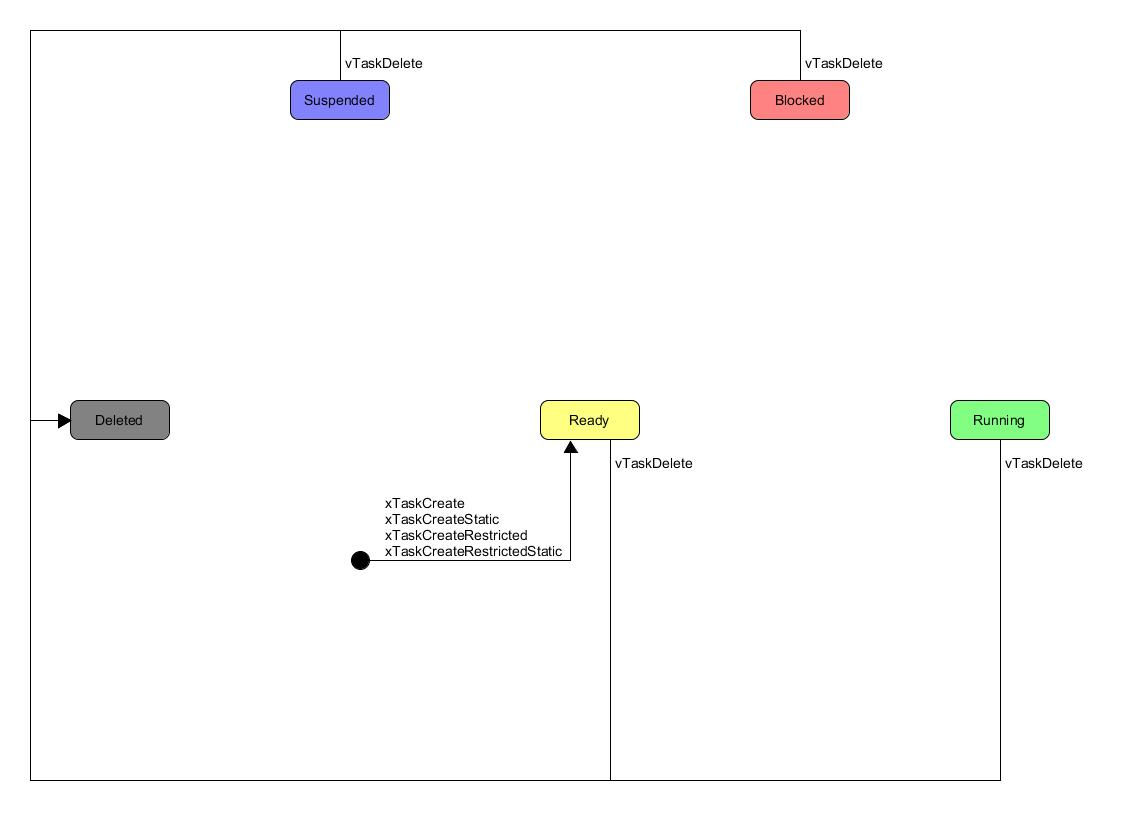
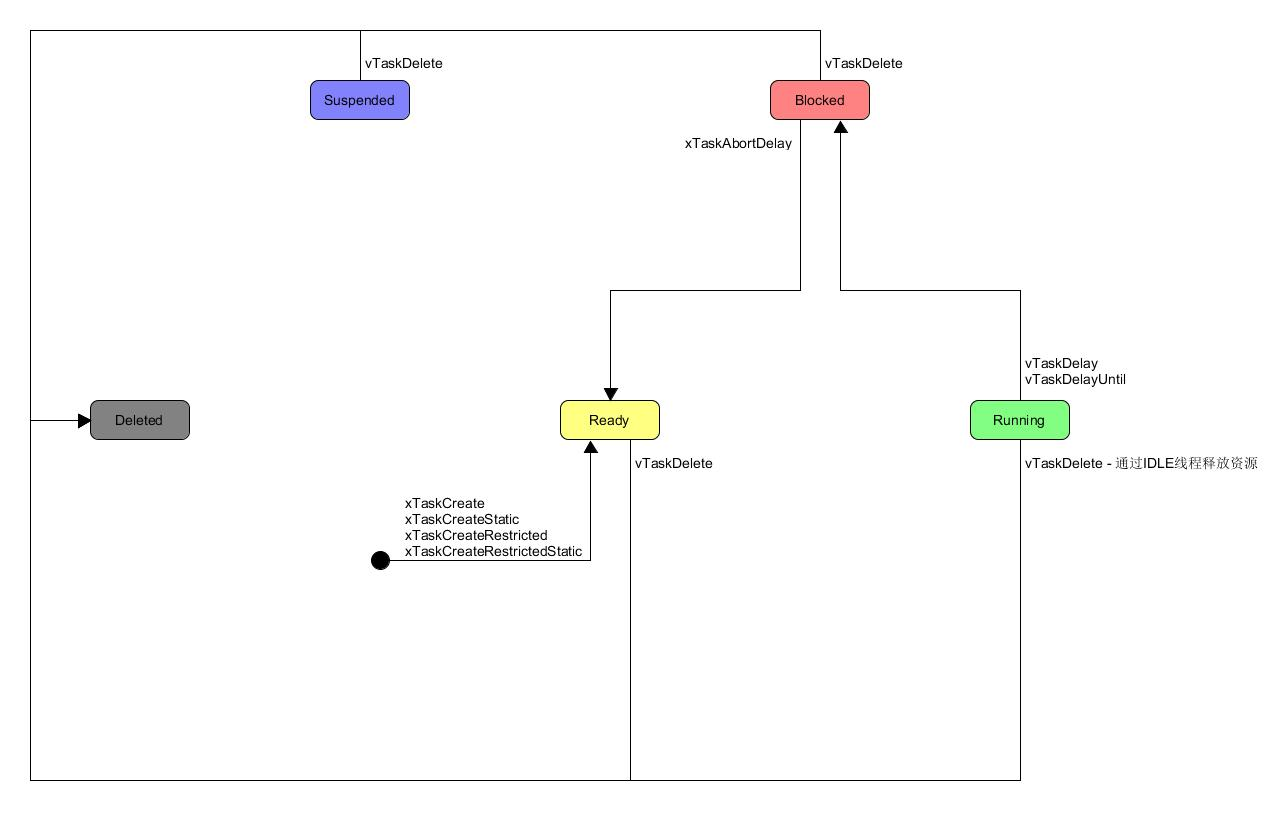
Update task_systick_and_delay.md

diff --git a/FreeRTOS/Markdown/task_systick_and_delay.md b/FreeRTOS/Markdown/task_systick_and_delay.md
@@ -15,6 +15,10 @@ FreeRTOS 提供了一些宏来配置系统时钟的频率：
 
 ## xTaskIncrementTick
 
+### 功能
+
+
+
 ### 原型
 
 ``` C
@@ -28,7 +32,7 @@ BaseType_t xTaskIncrementTick( void );
 
 ### 返回值
 
-如果该函数返回真，表明应该发起一次上下文切换（有高优先级任务或同优先级任务需要切换），后续可以手动触发一次 **PendSV** 中断，进行上下文切换。
+如果该函数返回非0，表明应该发起一次上下文切换（有高优先级任务或同优先级任务需要切换）。
 
 ### 流程
 
@@ -48,23 +52,30 @@ BaseType_t xTaskIncrementTick( void );
 
 ## vTaskSuspendAll
 
+### 功能
+
+在不禁用中断的情况下挂起调度器。需要注意：
+
+ - 不能在挂起状态下调用可能导致上下文切换的函数，比如 **vTaskDelay**，**vTaskDelayUntil**，**xQueueSend** 等。
+ - 该函数与 **xTaskResumeAll** 配对使用，通过变量 **uxSchedulerSuspended** 记录调度器的状态，每次挂起时变量加1，恢复时变量减1。
+
 ### 原型
 
 ``` C
 void vTaskSuspendAll( void );
 ```
 
-该函数与 **xTaskResumeAll** 配对使用，通过变量 **uxSchedulerSuspended** 记录调度器的状态，每次挂起时变量加1，恢复时变量减1。
-
 ## xTaskResumeAll
+
+### 功能
+
+恢复由 **vTaskSuspendAll** 挂起的调度器。该函数不会取消使用 **vTaskSuspend** 挂起的任务。
 
 ### 原型
 
 ``` C
 BaseType_t xTaskResumeAll( void );
 ```
-
-该函数与 **vTaskSuspendAll** 配对使用，不会取消使用 **vTaskSuspend** 挂起的任务。
 
 ### 返回值
 
@@ -76,6 +87,10 @@ BaseType_t xTaskResumeAll( void );
 
 ## vTaskDelay
 
+### 功能
+
+阻塞任务一定时间。
+
 ### 原型
 
 ``` C
@@ -84,9 +99,13 @@ void vTaskDelay( const TickType_t xTicksToDelay );
 
 ### 参数
 
- - xTicksToDelay：需要延时的系统时钟节拍数，可以用 **pdMS_TO_TICKS** 将需要延时的毫秒值转换为系统时钟的节拍数。
+ - xTicksToDelay：需要阻塞的系统时钟节拍数。可以用 **pdMS_TO_TICKS** 将需要延时的毫秒值转换为系统时钟的节拍数。
 
 ## vTaskDelayUntil
+
+### 功能
+
+将任务阻塞到指定的时间。该函数可以被周期性的任务调用，以确保恒定的执行频率。
 
 ### 原型
 
@@ -97,9 +116,13 @@ void vTaskDelayUntil( TickType_t * const pxPreviousWakeTime, const TickType_t xT
 ### 参数
 
  - pxPreviousWakeTime：指向一个变量，该变量保存任务最后一次解除阻塞的时间。第一次使用前，该变量必须初始化为当前时间。
- - xTimeIncrement：周期循环时间。
+ - xTimeIncrement：周期循环的时钟节拍数。可以用 **pdMS_TO_TICKS** 将需要延时的毫秒值转换为系统时钟的节拍数。
 
 ## xTaskAbortDelay
+
+### 功能
+
+强制任务离开阻塞状态，进入就绪状态。
 
 ### 原型
 
@@ -109,12 +132,11 @@ BaseType_t xTaskAbortDelay( TaskHandle_t xTask );
 
 ### 参数
 
- - xTask：
+ - xTask：任务句柄。
 
 ### 返回值
 
-
+如果任务没有处于阻塞状态，则返回假。否则返回真。
 
  [1]: ./images/xTaskIncrementTick.jpg
  [2]: ./images/xTaskResumeAll.jpg
-

diff --git a/SUMMARY.md b/SUMMARY.md
@@ -15,7 +15,9 @@
     - Task
         - [任务介绍](FreeRTOS/Markdown/task_introduction.md)
         - [任务的创建与删除](FreeRTOS/Markdown/task_create_and_delete.md)
-        - [调度器的启动](FreeRTOS/Markdown/task_start_scheduler.md)
+        - [X调度器的启动](FreeRTOS/Markdown/task_start_scheduler.md)
+        - [X任务的调度](FreeRTOS/Markdown/task_yield.md)
+        - [系统时钟与任务延时](FreeRTOS/Markdown/task_systick_and_delay.md)
     - Misc
         - [中断优先级](FreeRTOS/Markdown/misc_interrupt_priority.md)
 
